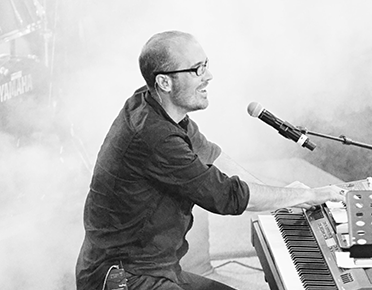
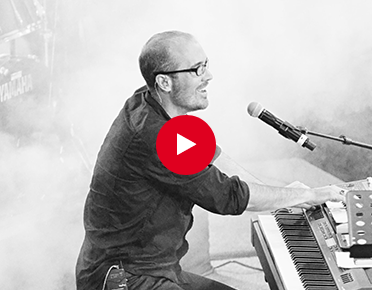
Home10 upcoming and video done

Changed region(s): [[0.414, 0.3724, 0.5914, 0.6207]]

diff --git a/Home10/index.html b/Home10/index.html
@@ -76,7 +76,8 @@
                     <span class="cantus card-text mb-3">
                         With Cantus
                     </span>
-                    <a href="#" class="card-text mr-auto ml-auto pr-3 pl-3 pt-1 pb-1 mt-5 discover-more-button">discover more</a>
+                    <a href="#" class="card-text mr-auto ml-auto pr-3 pl-3 pt-1 pb-1 mt-5 discover-more-button">discover
+                        more</a>
                 </div>
             </div>
         </div>
@@ -90,8 +91,107 @@
         </a>
     </div>
     <div class="progress" style="height: 3px;">
-        <div class="progress-bar bg-danger" role="progressbar" style="width: 90%;" aria-valuenow="25" aria-valuemin="0" aria-valuemax="100"></div>
+        <div class="progress-bar bg-danger" role="progressbar" style="width: 90%;" aria-valuenow="25" aria-valuemin="0"
+             aria-valuemax="100">
+        </div>
     </div>
 </section>
+<section class="container my-5">
+    <span class="subtitle">
+        INTRODUCING
+        <b>Our Members</b>
+    </span>
+    <div class="clearfix">
+        <div class="float-right clearfix">
+            <a href="#" class="red-small-button mr-1"> < </a>
+            <a href="#" class="red-small-button "> > </a>
+        </div>
+    </div>
+    <div class="row mt-3">
+        <div class="col-12 col-lg-4 img1 mr-lg-2">
+            <span class="name">John Smith</span>
+            <p class="working">Vocal</p>
+            <a class="social-networks-on-card">
+                <img src="src/img/Facebook_Icon.png">
+                <span>32K</span>
+                <img src="src/img/Twitter_Icon.png">
+                <span>32K</span>
+                <img src="src/img/Google_Icon.png">
+                <span>32K</span>
+            </a>
+        </div>
+        <div class="col-12 col-lg-4 img2 mr-lg-2">
+            <span class="name">Rendi Outhor</span>
+            <p class="working">Drum</p>
+            <a class="social-networks-on-card">
+                <img src="src/img/Facebook_Icon.png">
+                <span>32K</span>
+                <img src="src/img/Twitter_Icon.png">
+                <span>32K</span>
+                <img src="src/img/Google_Icon.png">
+                <span>32K</span>
+            </a>
+        </div>
+        <div class="col-12 col-lg-4 img3">
+            <span class="name">Renes Odim</span>
+            <p class="working">Guiter</p>
+            <a class="social-networks-on-card">
+                <img src="src/img/Facebook_Icon.png">
+                <span>32K</span>
+                <img src="src/img/Twitter_Icon.png">
+                <span>32K</span>
+                <img src="src/img/Google_Icon.png">
+                <span>32K</span>
+            </a>
+        </div>
+    </div>
+</section>
+<section class="container mt-5">
+    <div class="row justify-content-between">
+        <div class="col-7 ">
+            <span class="subtitle ">
+                UPCOMING
+                <b>Content</b>
+            </span>
+            <div class="float-left mt-3">
+                <img src="src/img/photo-1445965752525-ac2d3c195ffe.png">
+                <div class="card-img-overlay ">
+                <span class="date">
+                    13
+                </span>
+                    <span class="date month">
+                    Jan
+                </span>
+                </div>
+            </div>
+            <div class="float-left ml-5 mt-3">
+                <span class="where ">Texas Rocks nation 2016</span>
+                <ul class="information-about-where mt-3">
+                    <li>Location  :   31 Great Smith Street, UK</li>
+                    <li>Date        :    July 13, 2017</li>
+                    <li>Time       :   10:00 AM</li>
+                    <li>Price       :    $40</li>
+                </ul>
+                <a href="#" class=" pr-4 pl-4 pt-3 pb-3 discover-more-button">purchase Ticket</a>
+            </div>
+
+        </div>
+        <div class="col-4">
+            <span class="subtitle">
+                Latest
+                <b>Video</b>
+            </span>
+            <div class="float-right clearfix">
+                <a href="#" class="red-small-button mr-1"> < </a>
+                <a href="#" class="red-small-button "> > </a>
+            </div>
+            <img src="src/img/BG80NXTTHY.png">
+        </div>
+    </div>
+    <div class="progress" style="height: 3px;">
+        <div class="progress-bar bg-danger" role="progressbar" style="width: 10%;" aria-valuenow="25" aria-valuemin="0" aria-valuemax="75"></div>
+    </div>
+</section>
+<section></section>
 </body>
 </html>

diff --git a/Home10/src/sass/components/_introducing.scss b/Home10/src/sass/components/_introducing.scss
@@ -1,0 +1,75 @@
+.subtitle {
+  color: #333333;
+  font-family: "Oswald - Regular", Arial, Serif, sans-serif;
+  font-size: 32px;
+  font-weight: 400;
+  line-height: 30px;
+
+  b {
+    color: #df001f;
+    font-family: "Great Vibes", Arial, Serif, sans-serif;
+    font-weight: 400;
+    letter-spacing: 3.2px;
+    display: block;
+  }
+}
+
+.social-networks-on-card {
+  position: absolute;
+  top: 530px;
+  z-index: -1;
+  transition: all 1s;
+  background-color: #df001f;
+}
+  .img1{
+    background:url(../../src/img/Jone-Smith.png) #df001f no-repeat;
+    height: 590px;
+    max-width: 370px;
+    position:relative;
+  }
+  .img1:hover a{
+    top:550px;
+    z-index: 5;
+  }
+
+.img2{
+  background:url(../../src/img/Rendi-Outhar.png) #df001f no-repeat;
+  height: 590px;
+  max-width: 370px;
+  position:relative;
+}
+.img2:hover a{
+  top:550px;
+  z-index: 5;
+}
+
+.img3{
+  background:url(../../src/img/Renes-Odim.png) #df001f no-repeat;
+  height: 590px;
+  max-width: 370px;
+  position:relative;
+}
+.img3:hover a{
+  top:550px;
+  z-index: 5;
+}
+
+.name {
+  position: relative;
+  top: 490px;
+  color: #ffffff;
+  font-family:"Oswald - Regular", Arial, Serif, sans-serif;
+  font-size: 22px;
+  font-weight: 400;
+  line-height: 20px;
+}
+
+.working {
+  font-family: "Droid Sans", Arial, Serif, sans-serif;
+  font-size: 16px;
+  position: relative;
+  top: 490px;
+  color: #ffffff;
+  font-weight: 400;
+  line-height: 20px;
+}

diff --git a/Home10/src/sass/components/_buttons.scss b/Home10/src/sass/components/_buttons.scss
@@ -1,0 +1,40 @@
+.purchase-button {
+  display: inline-block;
+  color: #df001f;
+  font-family: "Droid Sans", Arial, Serif, sans-serif;
+  font-size: 12px;
+  font-weight: 700;
+  line-height: 30px;
+  text-transform: uppercase;
+  letter-spacing: 0.6px;
+  box-shadow: 0 0 5px rgba(0, 0, 0, 0.1);
+  border-radius: 25px;
+  background-color: #ffffff;
+  padding: 5px 20px;
+
+  &:hover {
+    text-decoration: none;
+    color: #df001f;
+    opacity: 0.9;
+    transition: opacity 2s ease-in 0.3s;
+  }
+}
+
+.red-small-button {
+  text-decoration: none;
+  color: #ffffff;
+  font-family: "Font Awesome", Arial, Serif, sans-serif;
+  font-size: 24px;
+  font-weight: 400;
+  line-height: 20px;
+  text-transform: uppercase;
+  padding: 2px 5px 2px 5px;
+  background-color: #df001f;
+
+  &:hover {
+    text-decoration: none;
+    color: #ffffff;
+    opacity: 0.9;
+    transition: opacity 2s ease-in 0.3s;
+  }
+}

diff --git a/Home10/src/sass/components/_upcoming-content.scss b/Home10/src/sass/components/_upcoming-content.scss
@@ -1,0 +1,33 @@
+.date {
+  color: #ffffff;
+  font-family: "Oswald - Heavy", Arial, Serif, sans-serif;
+  font-weight: 400;
+  line-height: 30px;
+  font-size: 45px;
+  letter-spacing: 3.2px;
+  width: 40px;
+  position: relative;
+  top: 100px;
+  left: 100px;
+}
+
+.month {
+  top: 150px;
+  left: 20px;
+}
+
+.where {
+  color: #333333;
+  font-family: Oswald, Arial, Serif, sans-serif;
+  font-size: 22px;
+  font-weight: 500;
+  line-height: 30px;
+}
+
+.information-about-where {
+  color: #333333;
+  font-family: "Droid Sans", Arial, Serif, sans-serif;
+  font-size: 16px;
+  font-weight: 400;
+  line-height: 30px;
+}

diff --git a/Home10/src/sass/components/_header.scss b/Home10/src/sass/components/_header.scss
@@ -2,27 +2,7 @@
   background-color: #df001f;
 }
 
-.purchase-button {
-  display: inline-block;
-  color: #df001f;
-  font-family: "Droid Sans", Arial, Serif, sans-serif;
-  font-size: 12px;
-  font-weight: 700;
-  line-height: 30px;
-  text-transform: uppercase;
-  letter-spacing: 0.6px;
-  box-shadow: 0 0 5px rgba(0, 0, 0, 0.1);
-  border-radius: 25px;
-  background-color: #ffffff;
-  padding: 5px 20px;
 
-  &:hover {
-    text-decoration: none;
-    color: #df001f;
-    opacity: 0.9;
-    transition: opacity 2s ease-in 0.3s;
-  }
-}
 
 .general-menu {
   color: #ffffff;

diff --git a/Home10/src/sass/main.scss b/Home10/src/sass/main.scss
@@ -5,6 +5,9 @@
 
 @import 'components/header';
 @import 'components/lets-rock';
+@import 'components/introducing';
+@import 'components/buttons';
+@import 'components/upcoming-content';
 
 @import 'base/basic';
 @import 'base/typography';

diff --git a/Home10/src/sass/base/_basic.scss b/Home10/src/sass/base/_basic.scss
@@ -1,0 +1,3 @@
+li {
+  list-style: none;
+}
